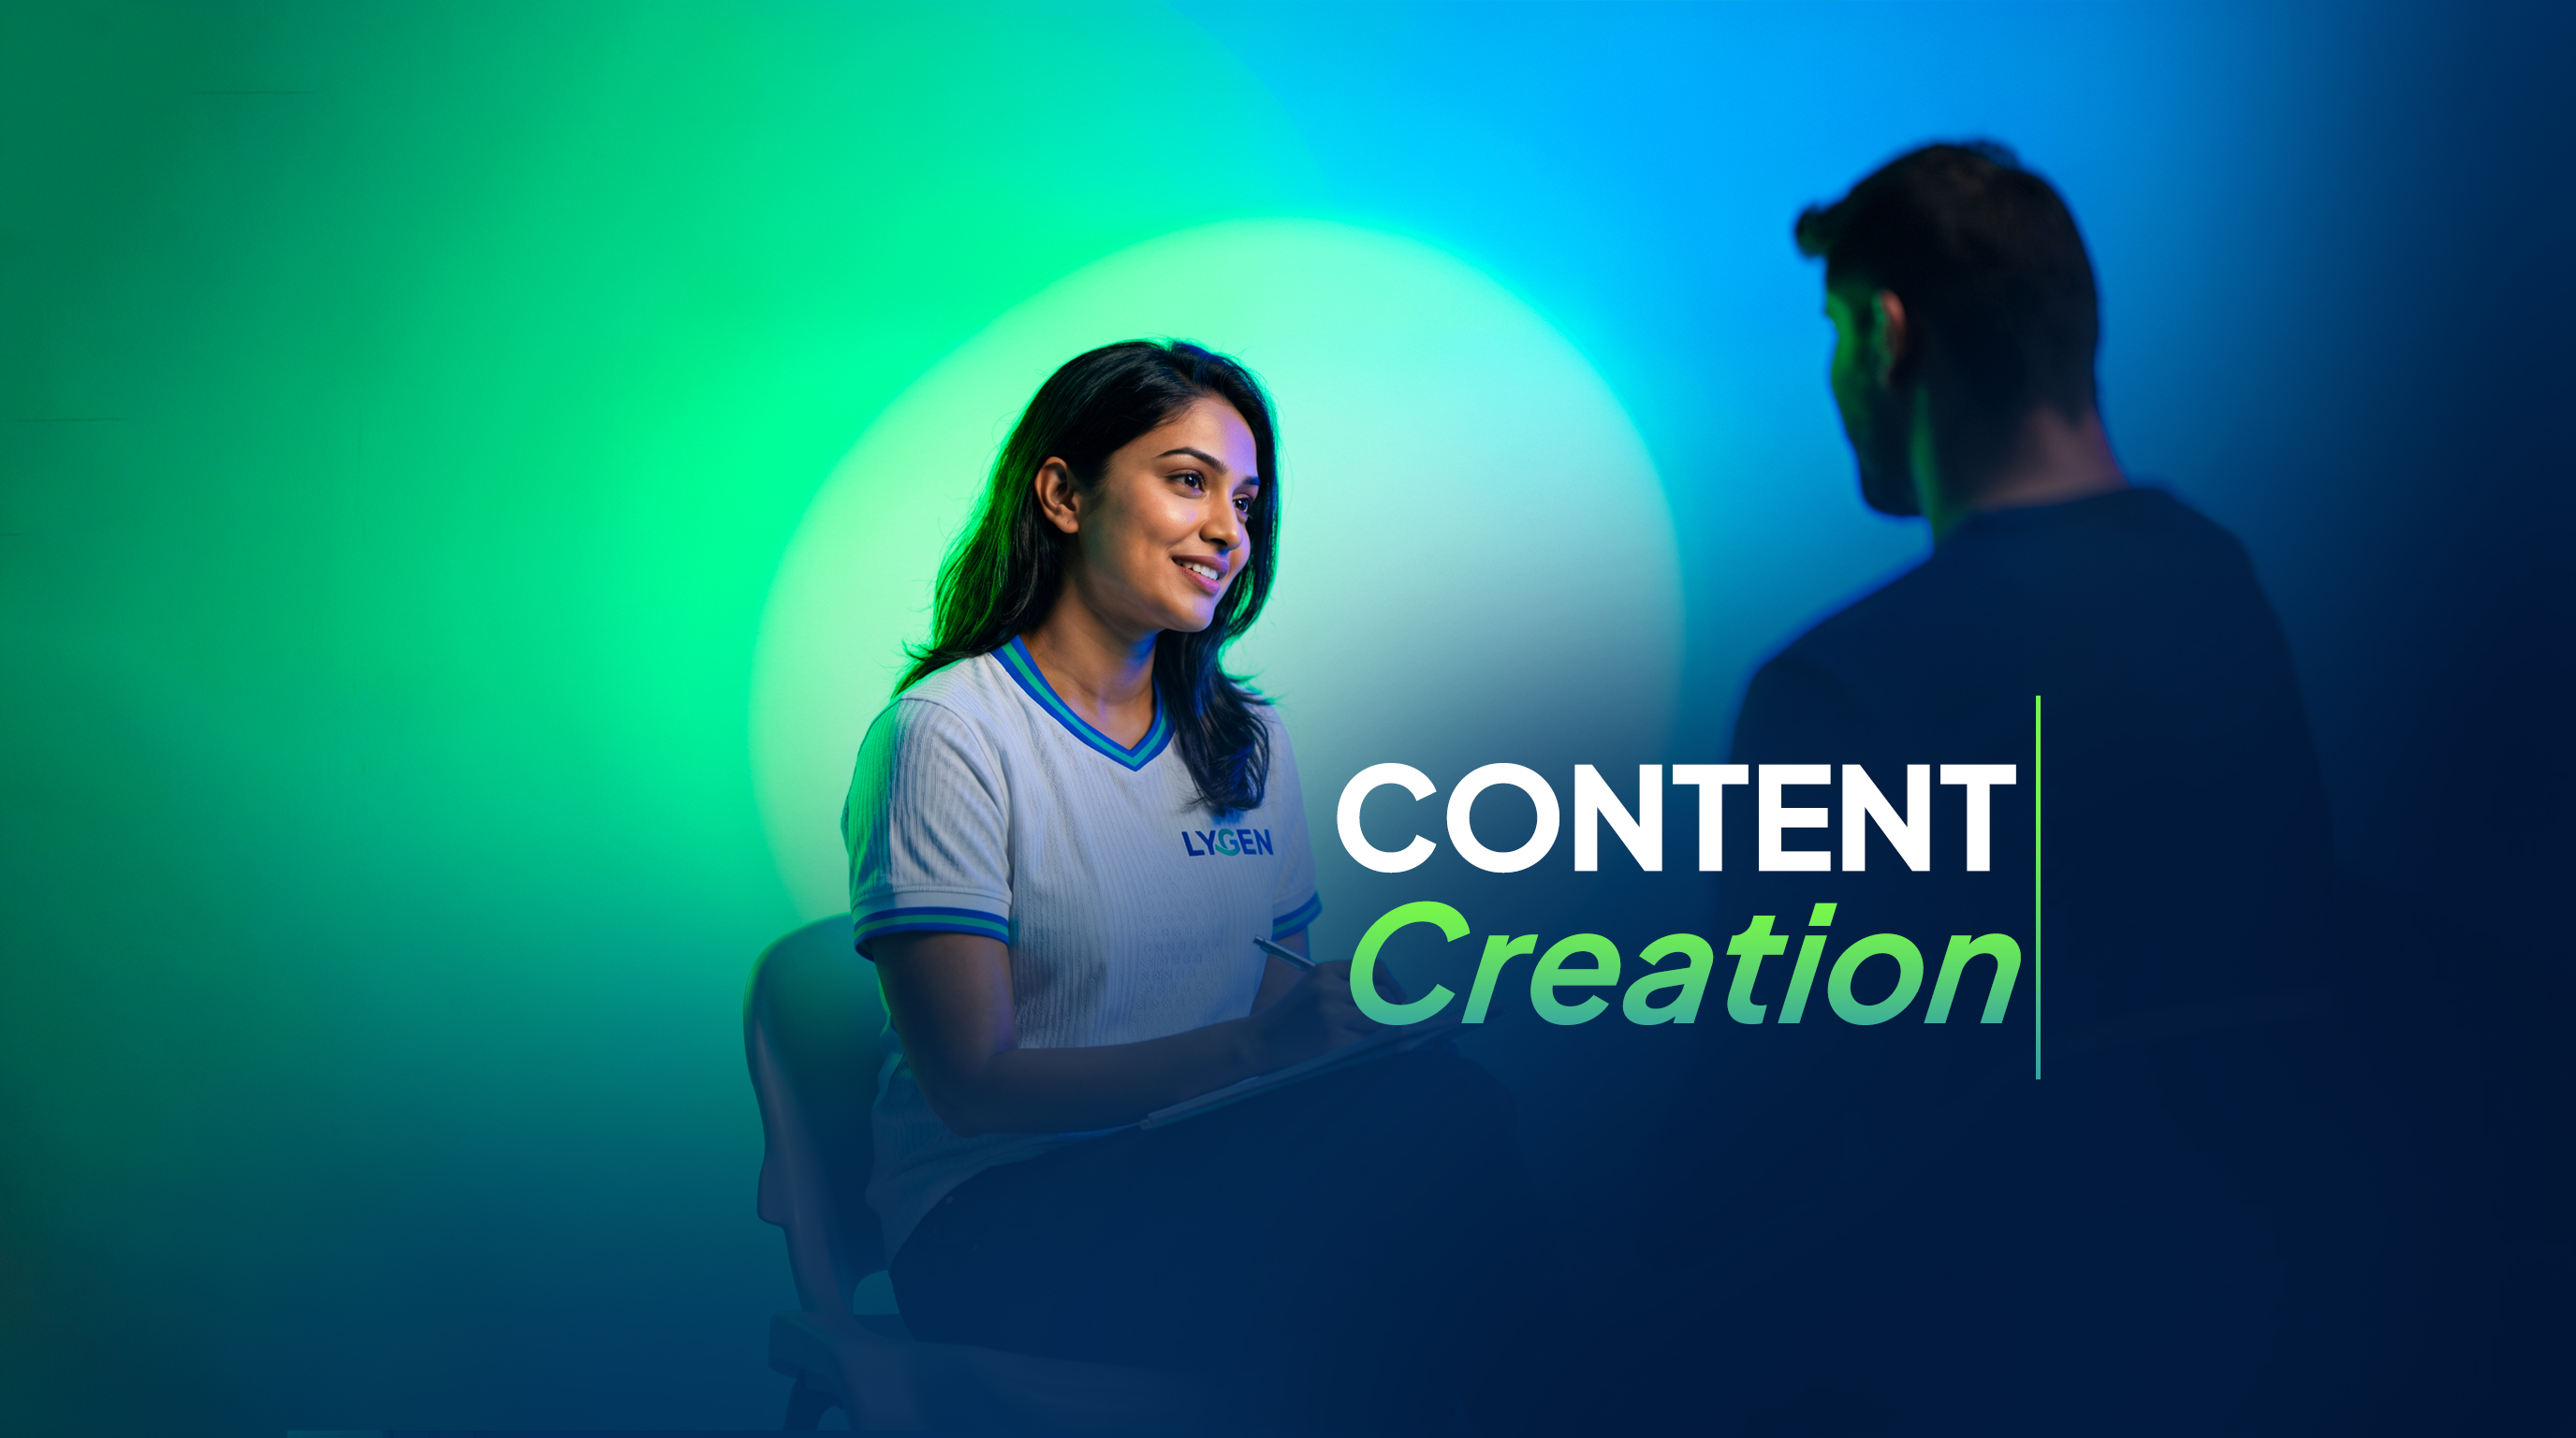
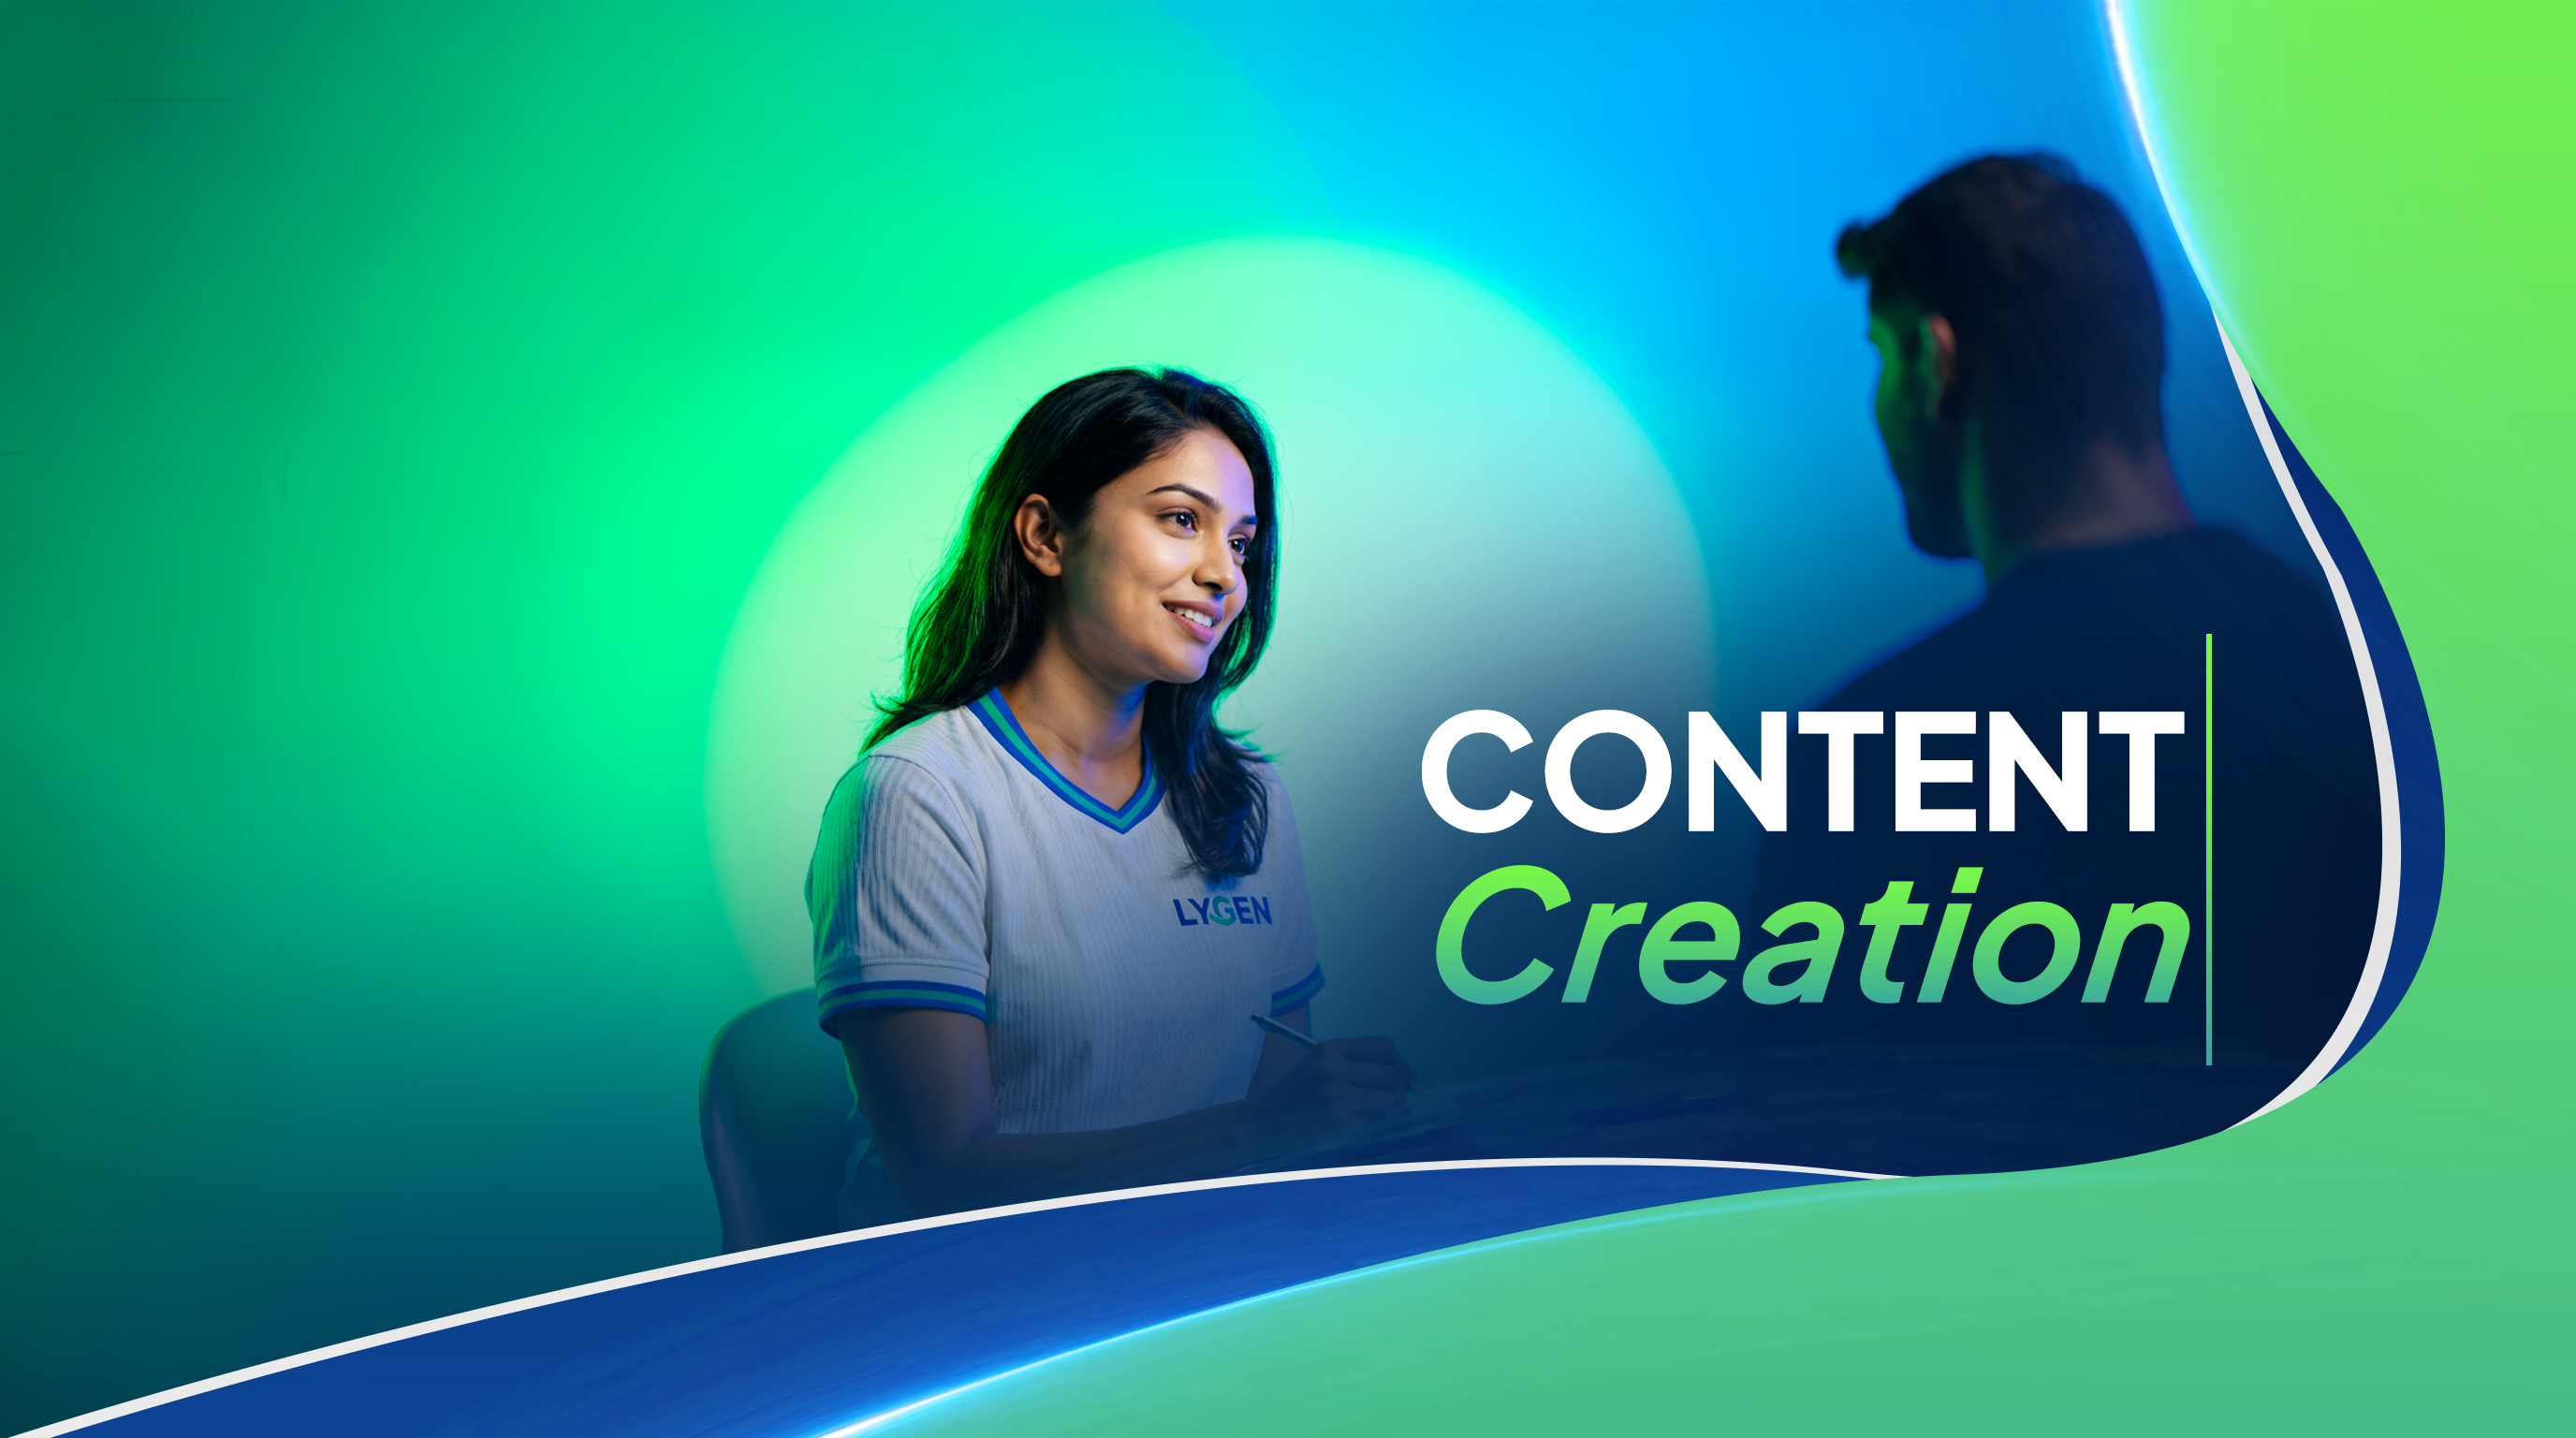
update images

diff --git a/index.html b/index.html
@@ -768,7 +768,7 @@
   <div class="services-video-bg">
     <!-- Optional: drop a video named services-bg.mp4 next to this file for a motion background. If it's missing (or fails to load) this just falls back to the blue gradient below - nothing breaks. -->
     <video class="services-video" muted loop playsinline preload="none" autoplay>
-      <source src="services-bg1.mp4" type="video/mp4">
+      <source src="services-bg.mp4" type="video/mp4">
     </video>
   </div>
   <div class="services-video-tint"></div>
@@ -859,7 +859,7 @@
           <source src="service-ads.mp4" type="video/mp4">
         </video>
         <!-- Drop a graphic next to this HTML file named service-ads.jpg -->
-        <img src="service-ads.jpg" alt="Paid Advertising" class="stack-img">
+        <img src="service-custom.jpg" alt="Paid Advertising" class="stack-img">
         <div class="stack-card-placeholder">
           <svg width="38" height="38" viewBox="0 0 24 24" fill="none" stroke="currentColor" stroke-width="1.6"><path d="M4 19V9"/><path d="M11 19V5"/><path d="M18 19v-7"/></svg>
           <p>service-ads.jpg</p>
@@ -867,7 +867,7 @@
         </div>
       </div>
       <div class="stack-card-body">
-        <p>Ad spend without strategy is just money disappearing. We build and manage performance campaigns across Meta, TikTok, and Google with clear targeting, tested creative, and constant optimization. You'll always know exactly what your budget is doing and why — no vague reports, just real numbers tied to real growth.</p>
+        <p>Every business works differently, which is why off-the-shelf solutions don't always fit. We design and build custom systems, dashboards, and internal platforms tailored to your workflow — whether it's managing bookings, tracking inventory, or streamlining day-to-day operations. Built with performance and usability in mind, every system is made to simplify complex tasks and grow alongside your business.</p>
       </div>
     </div>
 
@@ -879,7 +879,7 @@
           <source src="service-branding.mp4" type="video/mp4">
         </video>
         <!-- Drop a graphic next to this HTML file named service-branding.jpg -->
-        <img src="service-branding.jpg" alt="Branding & Identity" class="stack-img">
+        <img src="service-maintain.jpg" alt="Branding & Identity" class="stack-img">
         <div class="stack-card-placeholder">
           <svg width="38" height="38" viewBox="0 0 24 24" fill="none" stroke="currentColor" stroke-width="1.6"><circle cx="12" cy="12" r="9"/><path d="M12 3a9 9 0 0 0 0 18"/></svg>
           <p>service-branding.jpg</p>
@@ -887,7 +887,7 @@
         </div>
       </div>
       <div class="stack-card-body">
-        <p>A strong brand isn't just a logo — it's a whole system that stays consistent whether someone finds you on Instagram, your website, or a printed flyer. We build complete identity kits: logo, color palette, typography, and usage guidelines, so your brand looks intentional everywhere it shows up.</p>
+        <p>Launching your website is only the beginning. We keep your digital presence running smoothly with ongoing maintenance, performance improvements, and technical support. From fixing bugs and updating content to optimizing speed and responsiveness, we make sure your website stays secure, reliable, and ready for whatever comes next.</p>
       </div>
     </div>
 
@@ -899,7 +899,7 @@
           <source src="service-seo.mp4" type="video/mp4">
         </video>
         <!-- Drop a graphic next to this HTML file named service-seo.jpg -->
-        <img src="service-seo.jpg" alt="SEO & Analytics" class="stack-img">
+        <img src="service-ecom.jpg" alt="E-commerce & Solutions" class="stack-img">
         <div class="stack-card-placeholder">
           <svg width="38" height="38" viewBox="0 0 24 24" fill="none" stroke="currentColor" stroke-width="1.6"><circle cx="11" cy="11" r="7"/><path d="M21 21l-4.3-4.3"/></svg>
           <p>service-seo.jpg</p>
@@ -907,7 +907,7 @@
         </div>
       </div>
       <div class="stack-card-body">
-        <p>If people can't find you on Google, you're invisible to a huge share of potential customers. We handle technical SEO, on-page optimization, and clear monthly reporting that actually makes sense — no jargon, just a straight answer to "is this working?" backed by real traffic and ranking data.</p>
+        <p>A great online store is more than just products on a page — it needs to be fast, intuitive, and built to convert. From custom storefronts and secure payment integrations to product management and seamless checkout experiences, we create e-commerce platforms that make buying effortless and keep customers coming back.</p>
       </div>
     </div>
 